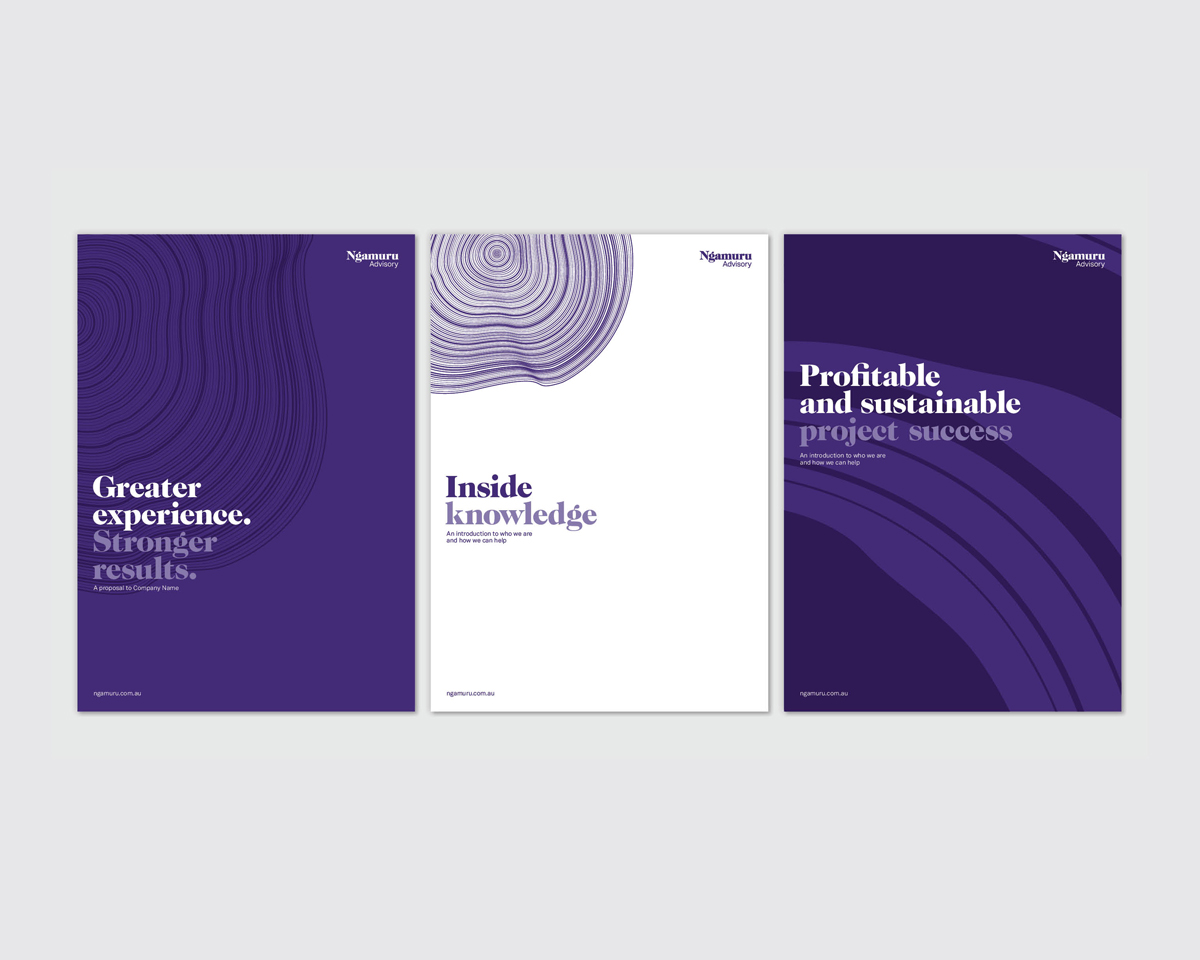
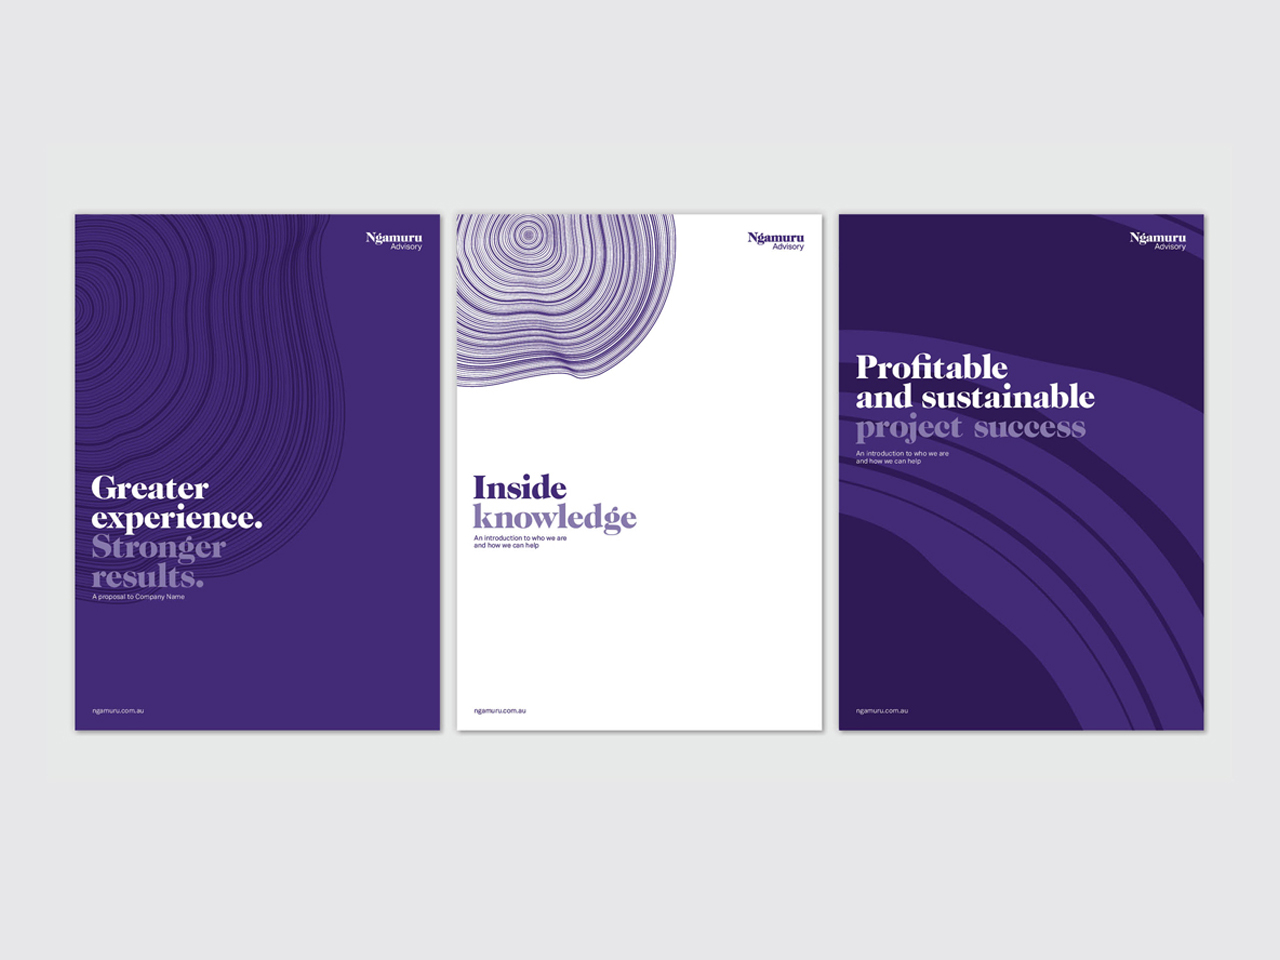
updates

diff --git a/final_project_2/css/about.css b/final_project_2/css/about.css
@@ -1,0 +1,154 @@
+.about h1 {
+	font-family: 'Karla', sans-serif;
+	font-size: 7em;
+	color: #000;
+	text-align: left;
+	padding-top: 2em;
+	padding-left: 4.95em;
+	padding-bottom: .45em;
+
+}
+
+.about h2 {
+	font-family: 'Karla', sans-serif;
+	font-size: .85em;
+	color: #000;
+	text-align: left;
+	max-width: 30%;
+	padding-left: 14.85em;
+	padding-bottom: 5em;
+	font-weight: 700;
+}
+
+
+.about p {
+	font-family: 'Karla', sans-serif;
+	font-size: 1em;
+	line-height: 1.5em;
+	color: #000;
+	text-align: left;
+	max-width: 50%;
+	padding-left: 12.5em;
+	padding-bottom: .65em;
+}
+
+.about img {
+	display: block;
+	width: 95%;
+	padding: .5em;
+	margin: auto;
+}
+
+@media only screen and (max-width: 1020px) {
+main {
+	width: 100%;
+}
+}
+
+@media only screen and (max-width: 750px) {
+	.left, .center, .right {
+		float:none;
+		width:auto;
+		padding: .5em;
+	}
+
+	nav a {
+		display: none;
+	}
+
+	#mobile {
+		display: block;
+		padding: 0;
+	}
+
+	nav:hover a {
+		display: block;
+	}
+
+	p {
+		padding-bottom: .5em;
+		line-height: 1.2em;
+	}
+
+	footer {
+	font-family: 'Karla', sans-serif;
+	font-size: .85em;
+	}
+
+.about h2 {
+	font-family: 'Karla', sans-serif;
+	font-size: 2em;
+	color: #000;
+	text-align: left;
+	padding-top: 2em;
+	padding-left: 3.3em;
+	padding-bottom: .45em;
+
+}
+
+.about h3 {
+	font-family: 'Karla', sans-serif;
+	font-size: .85em;
+	color: #000;
+	text-align: left;
+	max-width: 80%;
+	padding-left: 8em;
+	padding-bottom: 5em;
+	font-weight: 700;
+}
+
+.about p {
+	font-family: 'Karla', sans-serif;
+	font-size: 1em;
+	line-height: 1.5em;
+	color: #000;
+	text-align: left;
+	max-width: 80%;
+	padding-left: 6.75em;
+	padding-bottom: .65em;
+}
+
+}
+
+@media only screen and (max-width: 700px) {
+
+.left, .center, .right {
+	float: none;
+	width: auto;
+	display: block;
+}
+
+
+.about h2 {
+	font-family: 'Karla', sans-serif;
+	font-size: 2em;
+	color: #000;
+	text-align: left;
+	padding-top: 2em;
+	padding-left: 1em;
+	padding-bottom: .45em;
+
+}
+
+.about h3 {
+	font-family: 'Karla', sans-serif;
+	font-size: .85em;
+	color: #000;
+	text-align: left;
+	max-width: 80%;
+	padding-left: 2.2em;
+	padding-bottom: 5em;
+	font-weight: 700;
+}
+
+.about p {
+	font-family: 'Karla', sans-serif;
+	font-size: 1em;
+	line-height: 1.5em;
+	color: #000;
+	text-align: left;
+	max-width: 80%;
+	padding-left: 2em;
+	padding-bottom: .65em;
+}
+}

diff --git a/final_project_2/about.html b/final_project_2/about.html
@@ -20,14 +20,23 @@
 			<a href="index.html">Projects</a>
 		</nav>
 			<h1>Clare Barrett</h1>
-			<h2>Designer and illustrator based in Sydney, Australia.</h2>
+			<h2>Designer and illustrator.</h2>
 </header>
 
 <body>
 <div class="about">
-	<h1>I'm Clare, a designer with a penchant for brand identity and illustration, currently working at <a href="http://www.folk.com.au/">Folk.</a></h1>
-	<h2>Skilled in designing for both print and screen, and passionate about designing for a cause.</h2>
-	<h2>If you'd like to know more, or want to work together, don't hesitate to write me; <a href="mailto:clare.maree@hotmail.com">clare.maree@hotmail.com</a>.</h2>
+	<h1>About</h1>
+	<h2>I'm Clare, a designer with a love for brand identity and illustration. Skilled in designing for both print and screen, and passionate about designing for a cause.</h2>
+	<h2>After completing a Bachelors degree in Applied Design, I went on to work with leading agencies on projects that have pushed me to become an intelligent designer, who believes 'keep it simple stupid' are words to live by. </h2>
+
+	<h1>Contact</h1>
+	<h2><a href="mailto:hello@clarebarrett.design">hello@clarebarrett.design</a></h2>
+	<h2>+61 421 913 203</h2>
+
+	<h1>Follow</h1>
+	<h2><a href="https://www.linkedin.com/in/clare-barrett-1426127a/">LinkedIn</a></h2>
+	<h2><a href="#">Behance</a></h2>
+	<h2><a href="https://www.instagram.com/ccclare/">Instagram</a></h2>
 </div>
 </div>
 </body>

diff --git a/final_project_2/css/style.css b/final_project_2/css/style.css
@@ -118,25 +118,27 @@ footer {
     -moz-column-width: 200px;
     column-width: 200px;
     min-height: 00px;
-
 }
 
 .left {
 	padding: 1%;
 	margin: 0 1%;
 	padding-bottom: 8%;
+	display: inline-block;
 }
 
 .center {
 	padding: 1%;
 	margin: 0 1%;
 	padding-bottom: 8%;
+	display: inline-block;
 }
 
 .right {
 	padding: 1%;
 	margin: 0 1%;
 	padding-bottom: 8%;
+	display: inline-block;
 }
 
 .clearfix:after {
@@ -148,7 +150,7 @@ clear: both;
 height: 0;
 }
 
-.about h1 {
+/*.about h1 {
 	padding-top: 1.5em;
 	font-family: 'Karla', sans-serif;
 	font-size: 2.5em;
@@ -201,7 +203,7 @@ height: 0;
 	color: #000;
 	text-align: left;
 	padding-left: 8.85em;
-}
+}*/
 
 @media only screen and (max-width: 1020px) {
 main {
@@ -242,7 +244,7 @@ main {
 /*	line-height: 1.5em;
 */	}
 
-	.about h2 {
+	/*.about h2 {
 	font-family: 'Karla', sans-serif;
 	font-size: 2em;
 	color: #000;
@@ -266,7 +268,7 @@ main {
 	color: #000;
 	text-align: left;
 	padding-left: 2.5em;
-}
+}*/
 
 
 }
@@ -285,7 +287,7 @@ main {
 		display: block;
 	}
 
-	.about h2 {
+	/*.about h2 {
 	font-family: 'Karla', sans-serif;
 	font-size: 1.45em;
 	color: #000;
@@ -309,5 +311,5 @@ main {
 	color: #000;
 	text-align: left;
 	padding-left: 1em;
-}
+}*/
 }

diff --git a/final_project_2/index.html b/final_project_2/index.html
@@ -5,6 +5,7 @@
 	<title>Clare Barrett</title>
 <!-- 	<link rel="stylesheet" type="text/css" href="css/reset.css"> -->
 	<link rel="stylesheet" type="text/css" href="css/style.css">
+	<link rel="stylesheet" type="text/css" href="css/about.css">
 	<!--[if lt IE 9]>
             <script src="bower_components/html5shiv/dist/html5shiv.js"></script>
         <![endif]-->
@@ -16,17 +17,17 @@
 			<nav>
 			<a href="#" id="mobile">&#9776;</a>
 			<a href="about.html">About</a>
-			<a href="contact.html">Contact</a>
+			<!-- <a href="contact.html">Contact</a> -->
 			<a href="index.html">Projects</a>
 			</nav>
 		<h1><a href="index.html">Clare Barrett</a></h1>
-		<h2>Designer and illustrator based in Sydney, Australia.</h2>
+		<h2>Designer and illustrator</h2>
 	</header>
 
 	<main>
 		<section id="three_column" class="clearfix">
 			<article class="left">
-				<a href="ngamuru.html"><img src="images/Ngamuru.jpg" alt="Ngamuru brand identity image">
+				<a href="ngamuru.html"><img src="images/Ngamuru_3.jpg" alt="Ngamuru brand identity image">
 				<h3>Ngamuru Advisory</h3></a>
 				<p>Brand identity</p>
 			</article>
